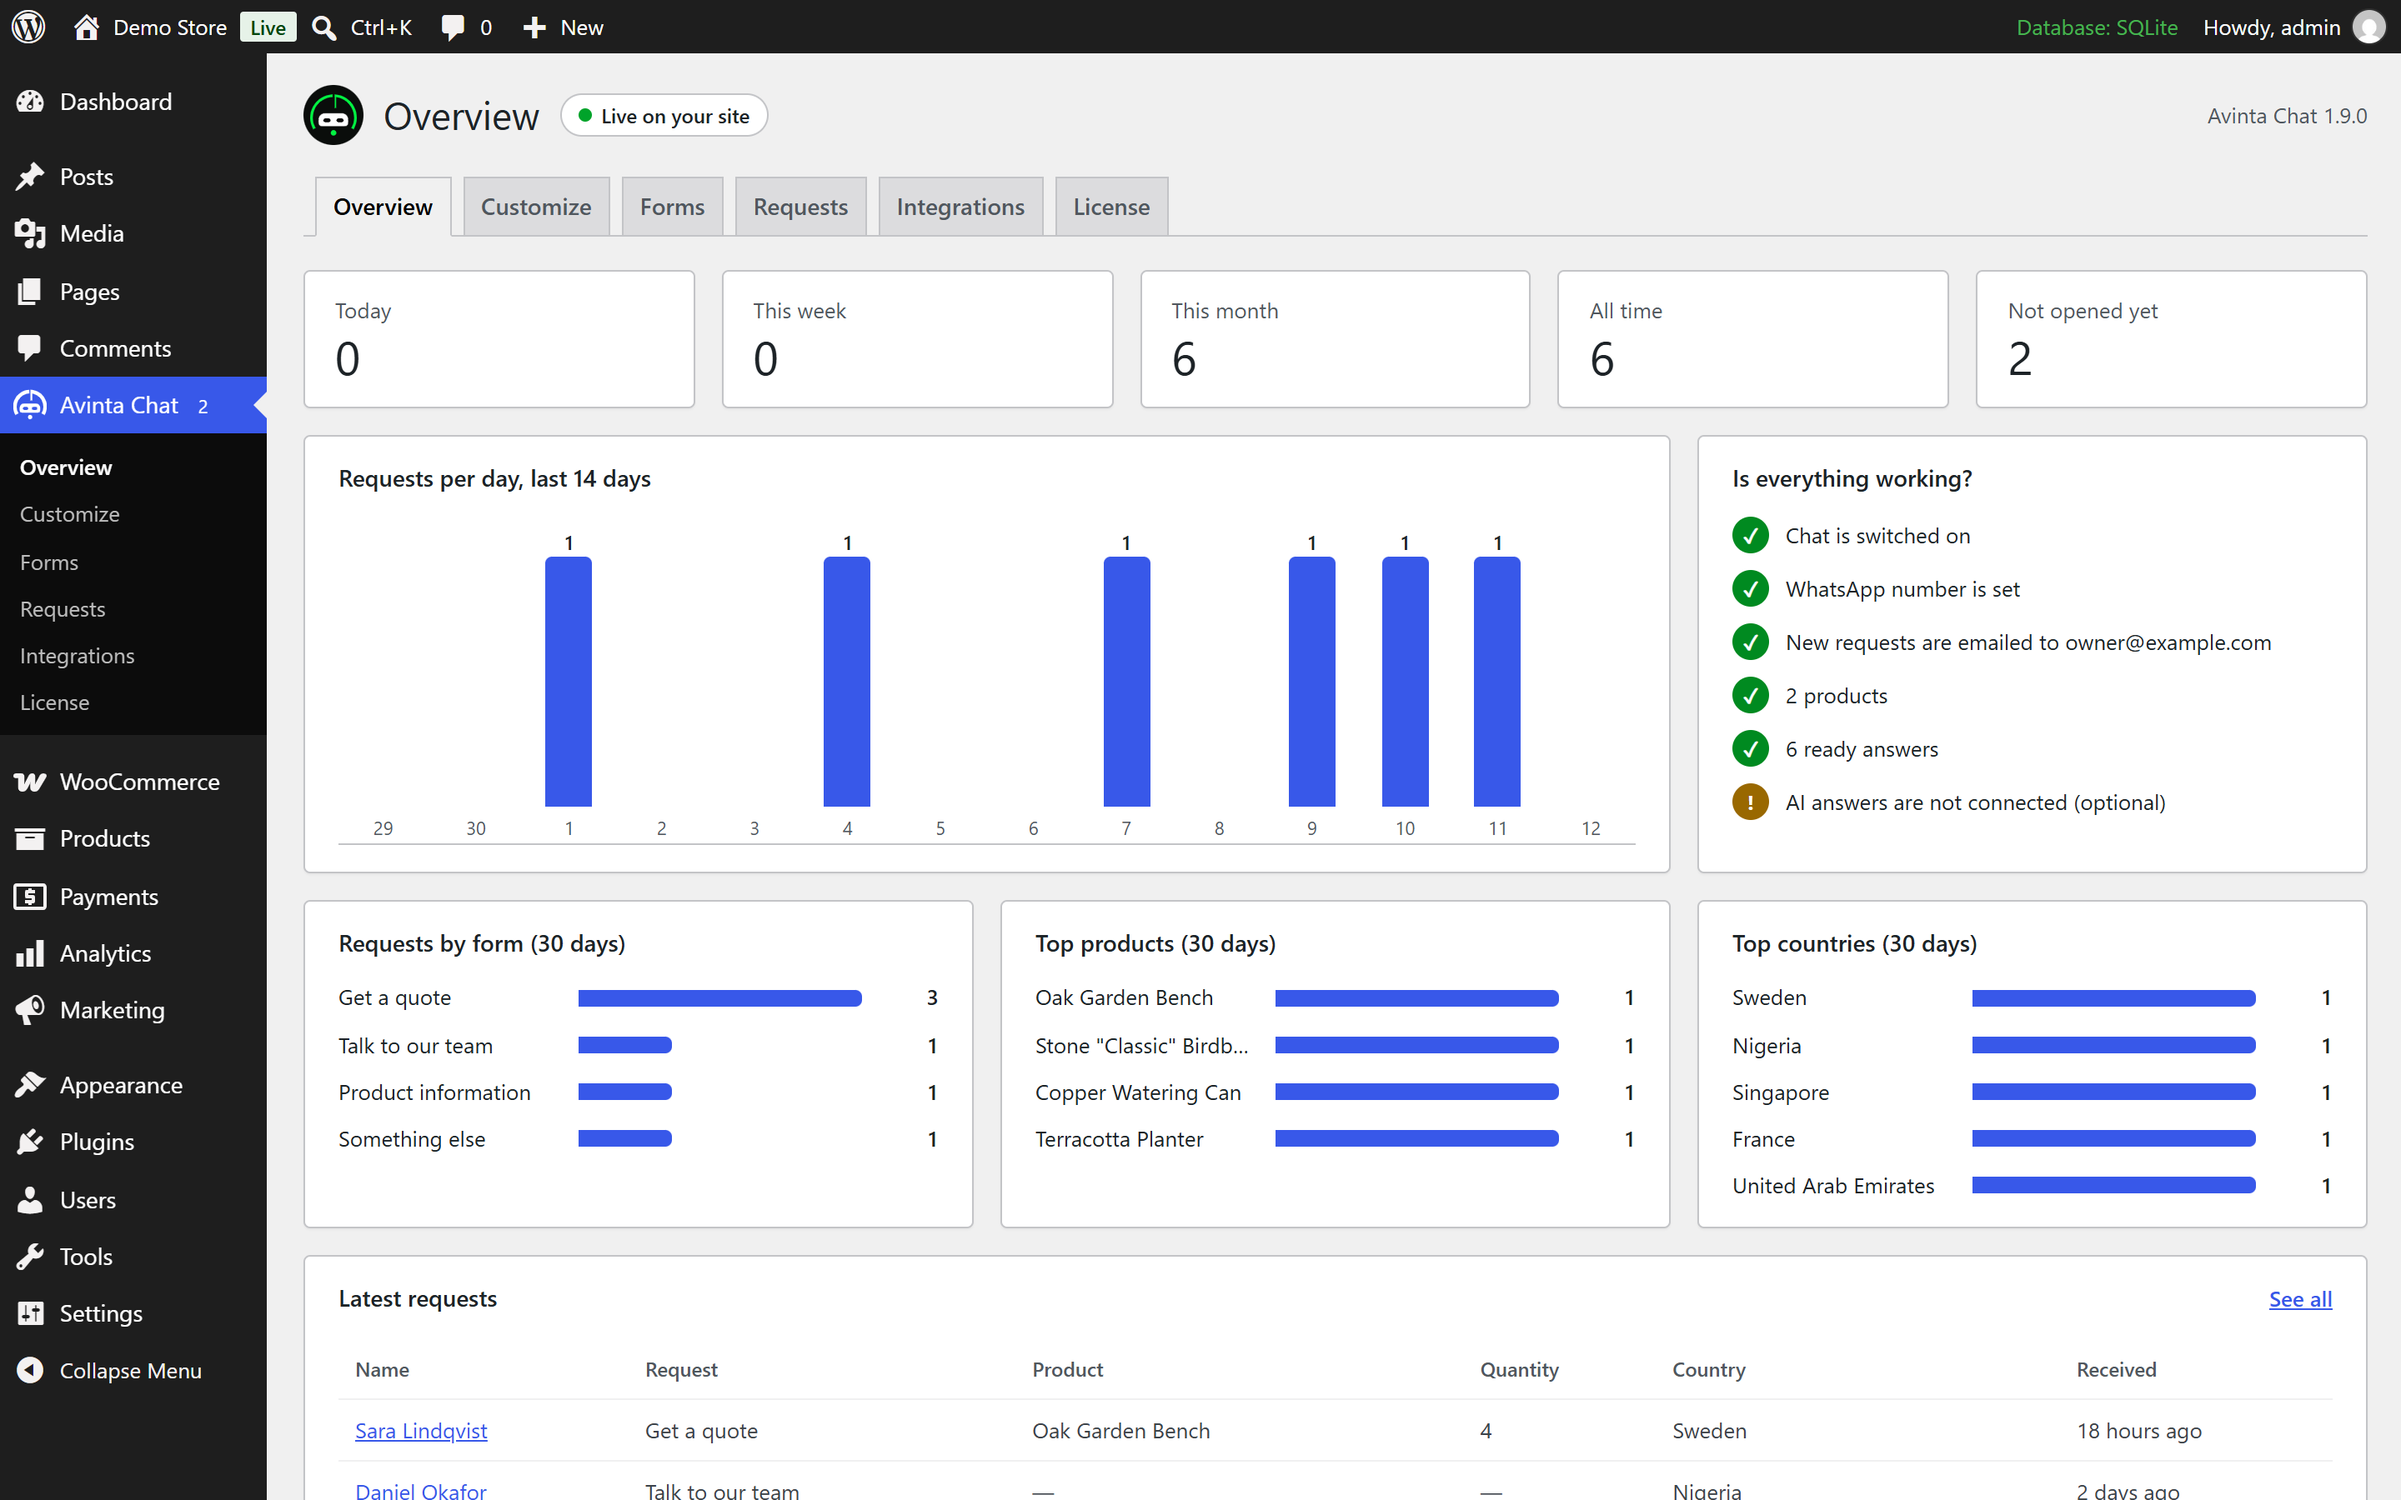
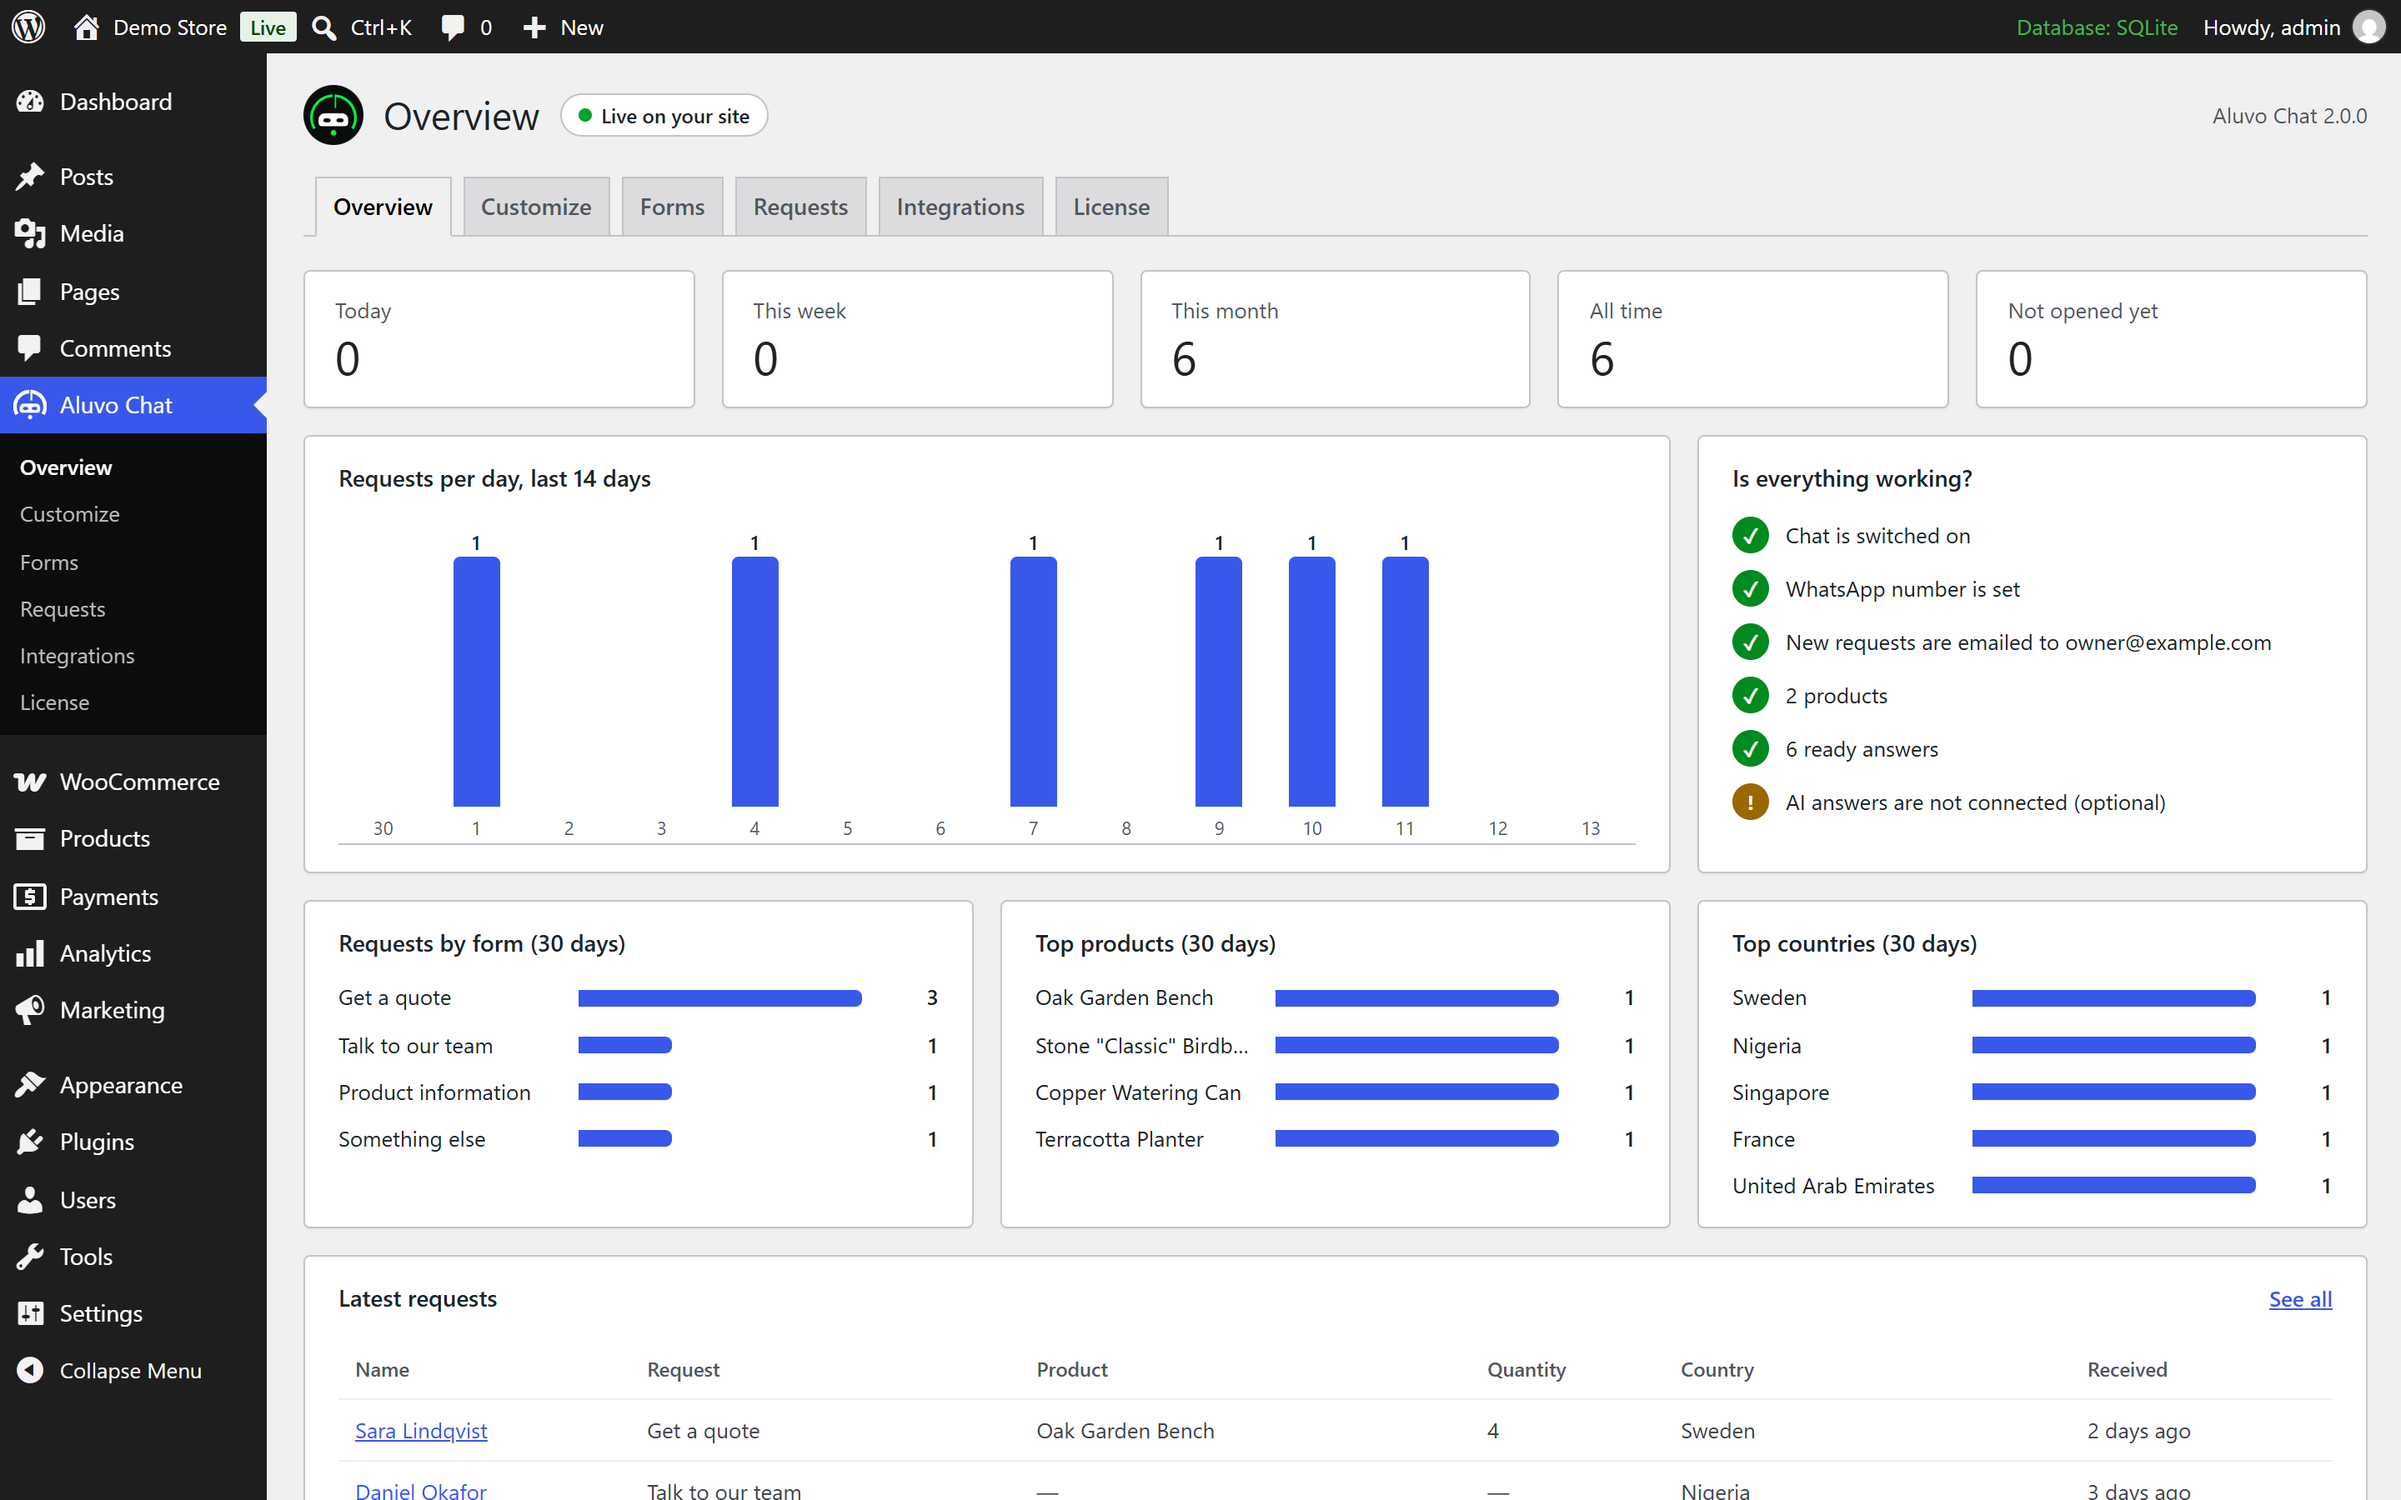
Aluvo Chat 2.0.0: new name, Custom CSS in Pro, fresh screenshots

diff --git a/README.md b/README.md
@@ -1,8 +1,8 @@
 <p align="center">
-  <img src="media/avinta-logo.svg" width="120" alt="Avinta Chat logo">
+  <img src="media/aluvo-logo.svg" width="120" alt="Aluvo Chat logo">
 </p>
 
-<h1 align="center">Avinta Chat</h1>
+<h1 align="center">Aluvo Chat</h1>
 
 <p align="center">
   A chat assistant for WordPress that guides visitors through your own forms<br>
@@ -10,13 +10,13 @@
 </p>
 
 <p align="center">
-  <b>Free 1.9.0</b> · <b>Pro add-on 1.5.0</b> · WordPress 5.3+ · PHP 7.2+ · Follows your WordPress language
+  <b>Free 2.0.0</b> · <b>Pro add-on 2.0.0</b> · WordPress 5.3+ · PHP 7.2+ · Follows your WordPress language
 </p>
 
 ---
 
 > **This repository is a showcase.** It documents the plugin and its progress.
-> The source code is private. If you'd like Avinta Chat on your site, see [Get it](#get-it).
+> The source code is private. If you'd like Aluvo Chat on your site, see [Get it](#get-it).
 
 <p align="center">
   <img src="media/chat-desktop.png" width="380" alt="The chat window with contact buttons and a bottom bar">
@@ -41,13 +41,14 @@ The free plugin is complete on its own. Pro is an add-on that installs beside it
 | Unlimited forms and requests | ✓ | ✓ |
 | Contact buttons and bottom bar with brand icons | ✓ | ✓ |
 | Requests saved in WordPress and emailed | ✓ | ✓ |
-| Colour and gradient themes, button shapes, six border types, inside colour or gradient, phone settings, Custom CSS | ✓ | ✓ |
+| Colour and gradient themes, button shapes, six border types, inside colour or gradient, phone settings | ✓ | ✓ |
 | Follows your WordPress language, including right-to-left | ✓ | ✓ |
 | AI answers with your own Claude or OpenAI key | | ✓ |
 | Ready answers with synonyms, typo tolerance and trigger words in other languages | | ✓ |
 | Products & categories: your own or live from WooCommerce, with price, offer, tags and a buy button | | ✓ |
 | Five button animations | ✓ | ✓ |
 | Five more animations in your own colour, with a separate choice for phones | | ✓ |
+| Custom CSS with a guide to every selector | | ✓ |
 | No "Powered by" link (opt-in on Free) | | ✓ |
 
 <img src="media/plans.png" alt="The License page with the Free and Pro plans">
@@ -141,7 +142,7 @@ Each answer reads like the chat itself. Trigger words are chips, and words in ot
 
 Solid and gradient themes, or your own two colours and angle. The gradient runs across the header, the buttons and the visitor's messages. The inside of the chat button can follow the theme, take any colour, or be transparent.
 
-### Custom CSS with a built-in guide
+### Custom CSS with a built-in guide (Pro)
 
 <img src="media/custom-css.png" alt="The Custom CSS box and its list of selectors with Insert buttons">
 
@@ -161,7 +162,7 @@ See the [changelog](CHANGELOG.md) for what changed in each release.
 
 ## Get it
 
-Pro, pricing and downloads: **[digidev.pro/avinta-chat](https://digidev.pro/avinta-chat)**.
+Pro, pricing and downloads: **[digidev.pro/aluvo-chat](https://digidev.pro/aluvo-chat)**.
 
 For a demo or a setup on your site, email **[Chaosmp81@gmail.com](mailto:Chaosmp81@gmail.com)**.
 

diff --git a/CHANGELOG.md b/CHANGELOG.md
@@ -1,15 +1,16 @@
 # Changelog
 
-## Free 1.9.0 and Pro 1.5.0: a new name
+## Free 2.0.0 and Pro 2.0.0: Aluvo Chat
 
-- **Aivanta Chat is now Avinta Chat**, with a name of its own on WordPress.org. The plugin works the same; its address is avinta-chat.
+- **The plugin is now Aluvo Chat** (formerly Aivanta Chat), a name of its own on WordPress.org. Its address is aluvo-chat.
+- **Custom CSS moves to Pro**, with its guide to every selector. WordPress.org does not allow free plugins to store custom CSS; every design option stays free.
 
 ## Free 1.8.0 and Pro 1.4.0: five animations free
 
 - **Five button animations are free:** Spinning border, Floating, Ripple rings, Comet and Hello wave.
 - **Pro** keeps Heartbeat, Breathing glow, Attention bounce, Orbit and Shine sweep, the animation colour and the phone animation, now carried entirely by the add-on. On Free they show as cards with a looping preview.
 - **Category and product steps** are open to every form; with no products listed the chat skips them.
-- **Get Pro** links go to digidev.pro/avinta-chat.
+- **Get Pro** links go to digidev.pro/aluvo-chat.
 
 ## Free 1.7.0 and Pro 1.3.0: chat window preview, Pro previews
 
@@ -41,13 +42,13 @@
 ## Free 1.4.0 and Pro 1.0.0: channels, languages, Free and Pro
 
 - Contact channels: WhatsApp, Telegram, Facebook, Instagram, LinkedIn, Discord, GitHub, email and a custom link, each with its brand icon. Choose the contact buttons and up to three for the bottom bar.
-- Free and Pro: AI answers, ready answers, products and categories and button animations move to the new Avinta Chat Pro add-on, unlocked by a license key checked offline.
+- Free and Pro: AI answers, ready answers, products and categories and button animations move to the new Aluvo Chat Pro add-on, unlocked by a license key checked offline.
 - Translations with right-to-left layout; every WordPress language through translation.
 - Default settings follow a change of site language.
 - An optional "Powered by" link, off until the site owner switches it on.
 - The free plugin passes WordPress's Plugin Check with no errors.
 
-## 1.3.1: Avinta Chat
+## 1.3.1: Aluvo Chat
 
 - New name and logo, in the dashboard menu, page headers and License page.
 - A clean default template: general forms, starter answers, and the new logo as the default chat icon.
